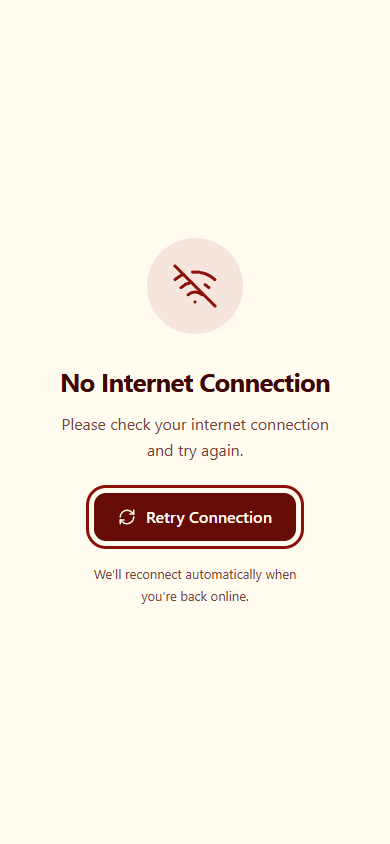
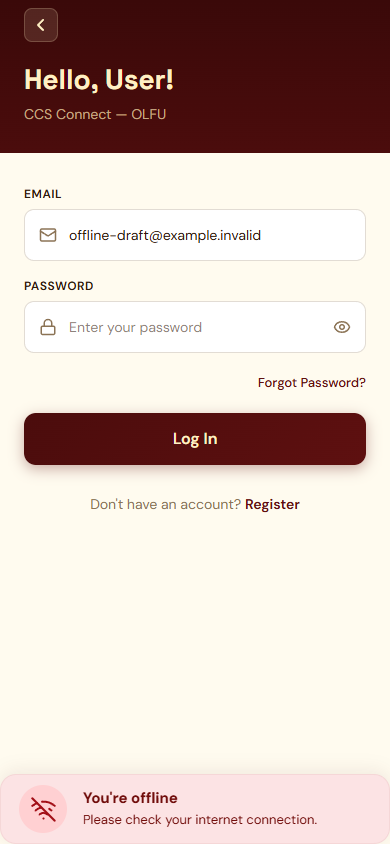
Refactor code structure for improved readability and maintainability

diff --git a/src/app/components/OfflineBoundary.tsx b/src/app/components/OfflineBoundary.tsx
@@ -1,38 +1,41 @@
 import { useEffect, useRef, useSyncExternalStore, type ReactNode } from 'react';
-import { RefreshCw, WifiOff } from 'lucide-react';
+import { WifiOff } from 'lucide-react';
 import { connectivity } from '../../lib/connectivity';
 import './OfflineBoundary.css';
 
 export function OfflineBoundary({ children }: { children: ReactNode }) {
-  const { offline, checking } = useSyncExternalStore(connectivity.subscribe, connectivity.getSnapshot);
-  const content = useRef<HTMLDivElement>(null);
-  const retry = useRef<HTMLButtonElement>(null);
+  const { offline } = useSyncExternalStore(connectivity.subscribe, connectivity.getSnapshot);
+  const banner = useRef<HTMLElement>(null);
   useEffect(() => connectivity.start(), []);
   useEffect(() => {
     if (!offline) return;
-    const previousFocus = document.activeElement as HTMLElement | null;
-    content.current?.setAttribute('inert', '');
-    const previousOverflow = document.body.style.overflow;
-    document.body.style.overflow = 'hidden';
-    retry.current?.focus();
-    return () => {
-      content.current?.removeAttribute('inert');
-      document.body.style.overflow = previousOverflow;
-      if (previousFocus?.isConnected) previousFocus.focus({ preventScroll: true });
+    let frame = 0;
+    const observed = new Set<Element>();
+    const measure = () => {
+      let bottom = 0;
+      document.querySelectorAll('[data-offline-bottom-anchor]').forEach(control => {
+        if (!observed.has(control)) { observed.add(control); resize.observe(control); }
+        const rect = control.getBoundingClientRect();
+        if (rect.width && rect.height && rect.bottom > 0 && rect.top < innerHeight) bottom = Math.max(bottom, innerHeight - rect.top);
+      });
+      observed.forEach(control => { if (!control.isConnected) { resize.unobserve(control); observed.delete(control); } });
+      banner.current?.style.setProperty('--offline-bottom', bottom ? `${bottom}px` : 'env(safe-area-inset-bottom, 0px)');
     };
+    const schedule = () => { cancelAnimationFrame(frame); frame = requestAnimationFrame(measure); };
+    const resize = new ResizeObserver(schedule);
+    const mutations = new MutationObserver(schedule);
+    mutations.observe(document.body, { childList: true, subtree: true });
+    window.addEventListener('resize', schedule);
+    measure();
+    return () => { cancelAnimationFrame(frame); resize.disconnect(); mutations.disconnect(); window.removeEventListener('resize', schedule); };
   }, [offline]);
   return <>
-    <div ref={content} aria-hidden={offline || undefined}>{children}</div>
-    {offline && <section className="offline-screen" role="dialog" aria-modal="true" aria-labelledby="offline-title" aria-describedby="offline-description">
-      <div className="offline-content">
-        <div className="offline-icon"><WifiOff size={48} strokeWidth={1.5} aria-hidden="true" /></div>
-        <h1 id="offline-title">No Internet Connection</h1>
-        <p id="offline-description">Please check your internet connection and try again.</p>
-        <button ref={retry} type="button" className="offline-retry" aria-disabled={checking} onClick={() => { if (!checking) void connectivity.check(); }}>
-          <RefreshCw size={18} aria-hidden="true" />
-          {checking ? 'Checking connection…' : 'Retry Connection'}
-        </button>
-        <p className="offline-status" role="status" aria-live="polite">{checking ? 'Checking your connection.' : 'We’ll reconnect automatically when you’re back online.'}</p>
+    {children}
+    {offline && <section ref={banner} className="offline-banner" role="status" aria-live="polite" aria-atomic="true">
+      <div className="offline-icon"><WifiOff size={27} strokeWidth={1.8} aria-hidden="true" /></div>
+      <div className="offline-copy">
+        <p className="offline-title">You're offline</p>
+        <p className="offline-description">Please check your internet connection.</p>
       </div>
     </section>}
   </>;

diff --git a/src/app/components/OfflineBoundary.css b/src/app/components/OfflineBoundary.css
@@ -1,20 +1,31 @@
-.offline-screen {
+.offline-banner {
   position: fixed;
-  inset: 0;
-  z-index: 2147483000;
-  display: grid;
-  place-items: center;
-  overflow-y: auto;
-  padding: max(32px, env(safe-area-inset-top)) max(24px, env(safe-area-inset-right)) max(32px, env(safe-area-inset-bottom)) max(24px, env(safe-area-inset-left));
-  background: #fffbef;
-  color: #3e0703;
+  bottom: var(--offline-bottom, env(safe-area-inset-bottom, 0px));
+  left: 50%;
+  transform: translateX(-50%);
+  width: min(100%, var(--app-max-width, 480px));
+  box-sizing: border-box;
+  z-index: 120;
+  display: flex;
+  align-items: center;
+  gap: 16px;
+  padding: 10px max(18px, env(safe-area-inset-right, 0px)) 10px max(18px, env(safe-area-inset-left, 0px));
+  border: 1px solid rgba(140, 16, 7, .06);
+  border-radius: 16px;
+  background: #fce3e4;
+  color: #710d0b;
+  font-family: 'DM Sans', sans-serif;
+  box-shadow: 0 -3px 18px rgba(62, 7, 3, .08);
+  pointer-events: none;
 }
-.offline-content { width: 100%; max-width: 440px; text-align: center; margin: auto; }
-.offline-icon { display: grid; place-items: center; width: 96px; height: 96px; margin: 0 auto 32px; border-radius: 50%; background: #f5e5dd; color: #8c1007; }
-.offline-content h1 { margin: 0 0 14px; font-size: clamp(1.6rem, 5vw, 2rem); font-weight: 700; line-height: 1.2; letter-spacing: -0.025em; text-wrap: balance; }
-.offline-content p { margin: 0 auto; max-width: 34ch; font-size: 1rem; line-height: 1.65; color: #75423b; }
-.offline-retry { display: inline-flex; align-items: center; justify-content: center; gap: 10px; min-height: 48px; padding: 12px 24px; margin-top: 30px; border: 0; border-radius: 12px; background: #8c1007; color: #fffbef; font: inherit; font-weight: 600; cursor: pointer; }
-.offline-retry:hover { background: #660b05; }
-.offline-retry:focus-visible { outline: 3px solid #8c1007; outline-offset: 5px; }
-.offline-retry[aria-disabled="true"] { background: #75423b; cursor: wait; }
-.offline-content .offline-status { min-height: 3em; margin-top: 22px; font-size: .8125rem; }
+.offline-icon { display: grid; place-items: center; width: 48px; height: 48px; flex: 0 0 48px; border-radius: 50%; background: #ffd0d2; color: #a20e16; }
+.offline-copy { min-width: 0; }
+.offline-banner p { margin: 0; }
+.offline-title { font-size: 15px; font-weight: 700; line-height: 1.4; }
+.offline-description { margin-top: 2px !important; font-size: 13px; line-height: 1.4; }
+.dark .offline-banner { background: #590c18; color: #fff4ef; border-color: rgba(255, 80, 100, .12); }
+.dark .offline-icon { background: #a80019; color: #fff4ef; }
+@media (max-width: 350px) {
+  .offline-banner { gap: 10px; padding-left: 12px; padding-right: 12px; }
+  .offline-description { font-size: 12px; }
+}

diff --git a/src/app/components/ChatInputBar.tsx b/src/app/components/ChatInputBar.tsx
@@ -55,6 +55,7 @@ export function ChatInputBar({
 
   return (
     <div
+      data-offline-bottom-anchor
       style={{
         background: isDark ? "#190A0E" : c.white,
         padding: "10px 12px calc(12px + env(safe-area-inset-bottom))",

diff --git a/src/app/components/BottomNav.tsx b/src/app/components/BottomNav.tsx
@@ -72,6 +72,7 @@ export function BottomNav() {
 
   return (
     <div
+      data-offline-bottom-anchor
       style={{
         position: "fixed",
         bottom: 0,
